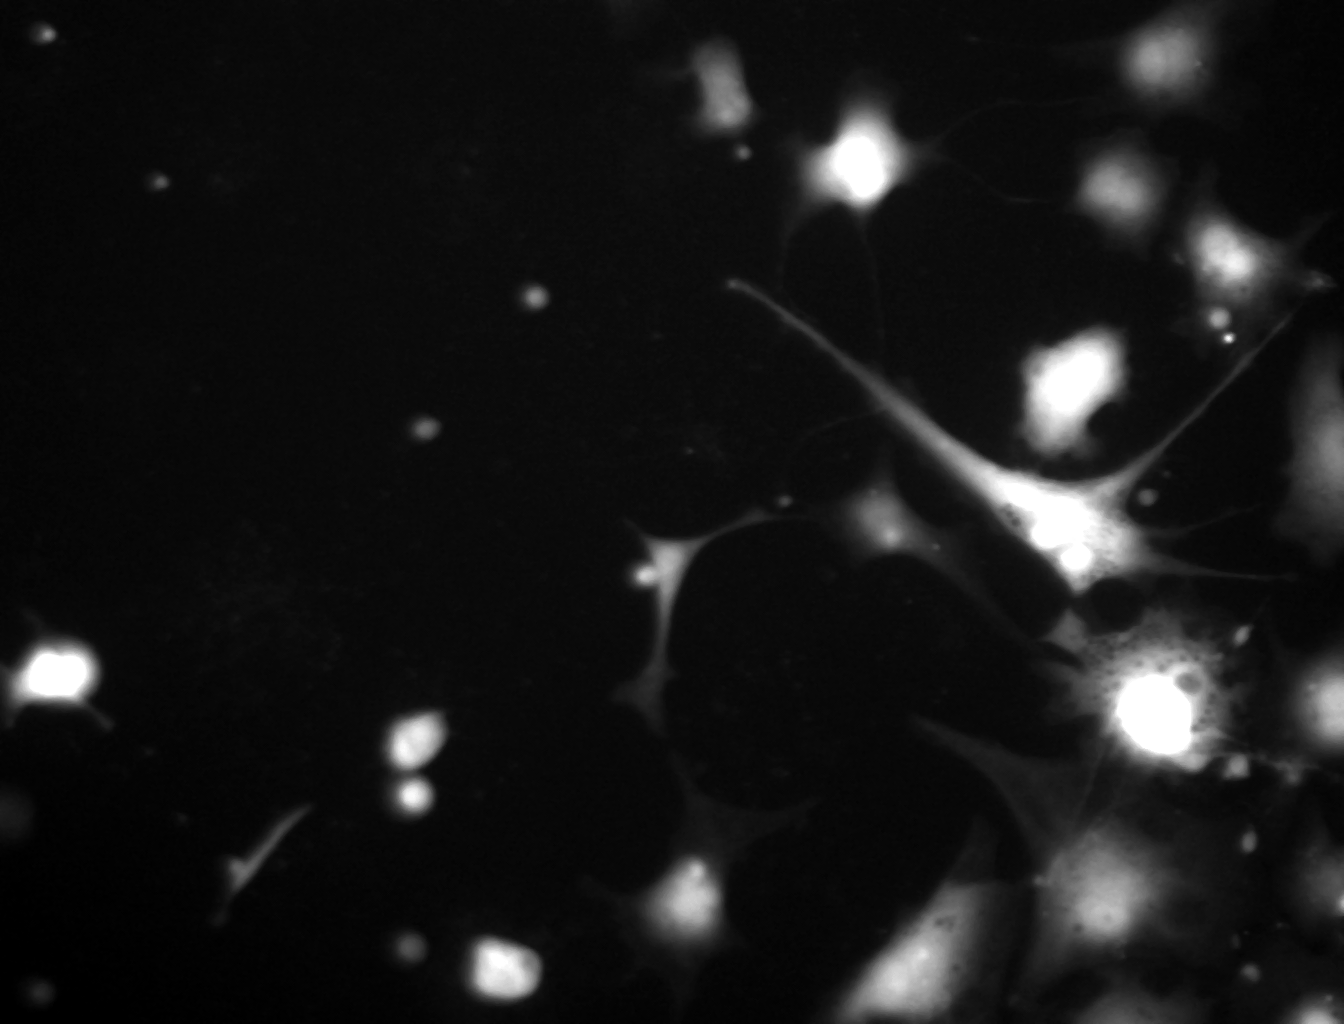
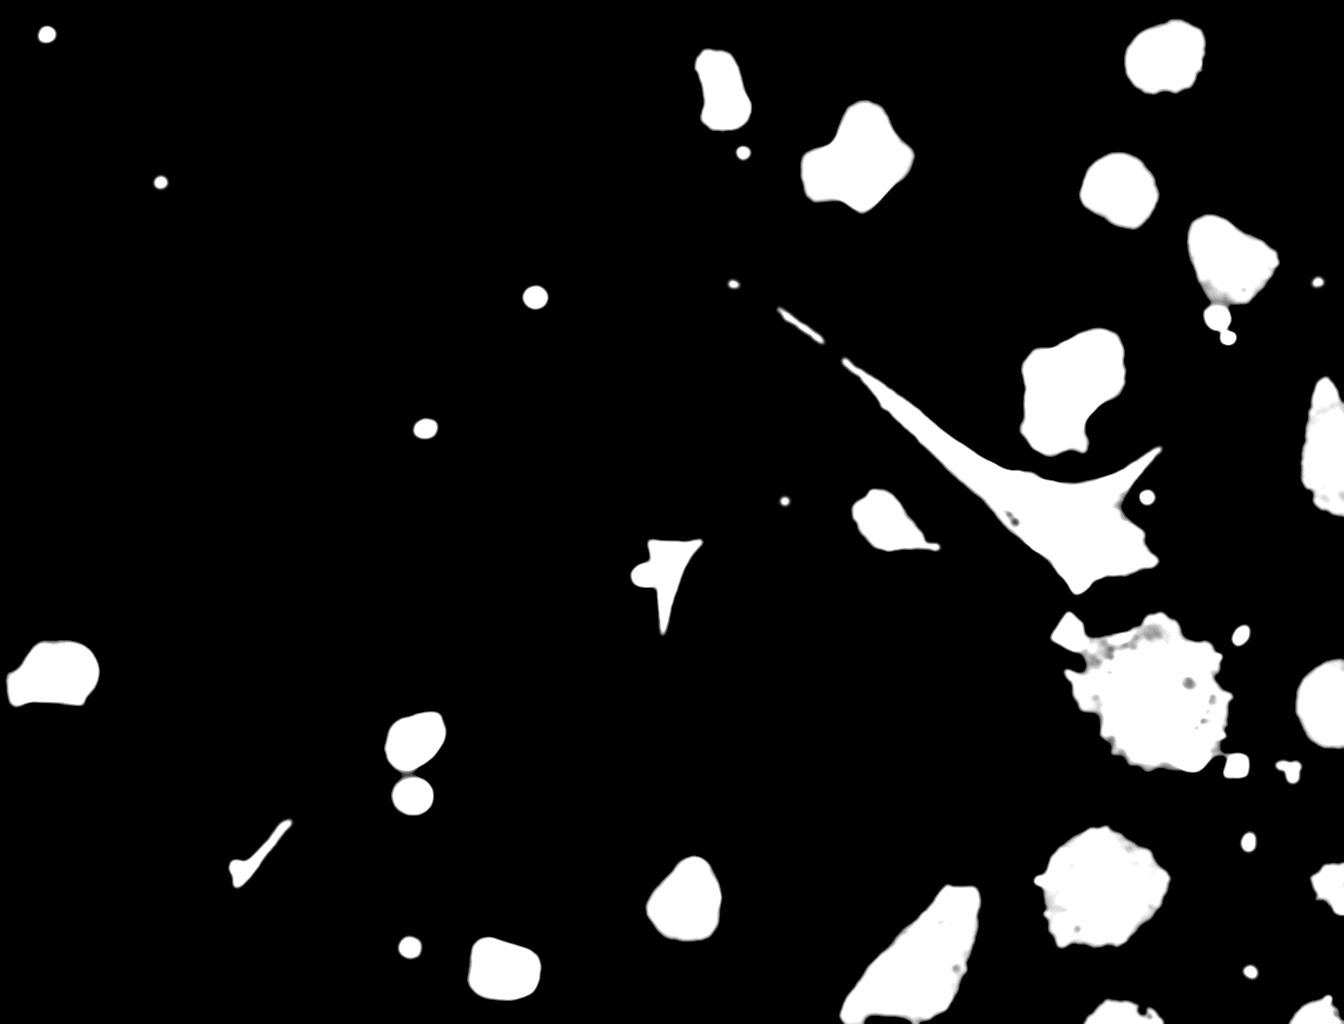
Begin segmentation

diff --git a/edu/uci/ics/graphics/neurovizj/src/process/Segmentator.java b/edu/uci/ics/graphics/neurovizj/src/process/Segmentator.java
@@ -1,5 +1,12 @@
 package edu.uci.ics.graphics.neurovizj.src.process;
 
+import ij.IJ;
+import ij.ImagePlus;
+import ij.plugin.filter.GaussianBlur;
+import ij.plugin.filter.RankFilters;
+import ij.process.Blitter;
+import ij.process.ImageProcessor;
+
 /**
  * This class will perform segmentation on an image
  * @author Alec
@@ -9,11 +16,48 @@ public class Segmentator {
 	
 	//test for now
 	public static void main(String[] args){
-		System.out.println("Hello World!");
-		InputImage test = new InputImage("1.png");
+		//System.out.println("Hello World!");
+		//InputImage test = new InputImage("1.png");
+		
 		//Opener opener = new Opener();
-		//test.open()
+		//opener.open(segment("1.png"))
+		IJ.save(segment("1.png"), "test.png"); //TODO: remove when finished testing
 	}
 	
+	/**
+	 * Segments the image located at path
+	 * @param path
+	 * @return
+	 */
+	public static ImagePlus segment(String path){
+		InputImage input = new InputImage(path);
+		ImageProcessor adjustedImg = input.getAdjusted().getProcessor();
+		//Generate a mask with threshold 0.2*255
+		adjustedImg.threshold(51);
+		
+		//now median filter with a 5x5 kernel to smooth the mask
+		RankFilters medFilt = new RankFilters();
+		medFilt.rank(adjustedImg, 2, RankFilters.MEDIAN);
+		
+		//apply mask
+		ImageProcessor minSuppres = input.getOrig().getProcessor();
+		minSuppres.copyBits(adjustedImg, 0, 0, Blitter.AND);
+	
+		//Now perform difference of Gaussians
+		GaussianBlur gauss = new GaussianBlur();
+		ImageProcessor en = minSuppres.duplicate();
+		ImageProcessor temp = minSuppres.duplicate();
+		
+		gauss.blurGaussian(en, 2, 2, .02);
+		en.multiply(1);
+		
+		gauss.blurGaussian(temp, 15, 15, .02);
+		temp.multiply(.625);
+		en.copyBits(temp, 0, 0, Blitter.SUBTRACT);
+		
+		en.multiply(8);
+		
+		return new ImagePlus("Hello", en); //TODO: change was completed testing
+	}
 	
 }

diff --git a/edu/uci/ics/graphics/neurovizj/src/process/InputImage.java b/edu/uci/ics/graphics/neurovizj/src/process/InputImage.java
@@ -2,7 +2,6 @@ package edu.uci.ics.graphics.neurovizj.src.process;
 
 import ij.IJ;
 import ij.ImagePlus;
-import ij.io.Opener;
 import ij.plugin.filter.RankFilters;
 import ij.process.ImageProcessor;
 import ij.process.ImageStatistics;
@@ -47,8 +46,6 @@ public class InputImage {
 		//TODO, image is a bit bright
 		
 		adjImg = new ImagePlus("test.png", adjProc);
-		
-		IJ.save(adjImg, "test.png"); //TODO: remove from testing
 	}
 	
 	public ImagePlus getOrig(){
